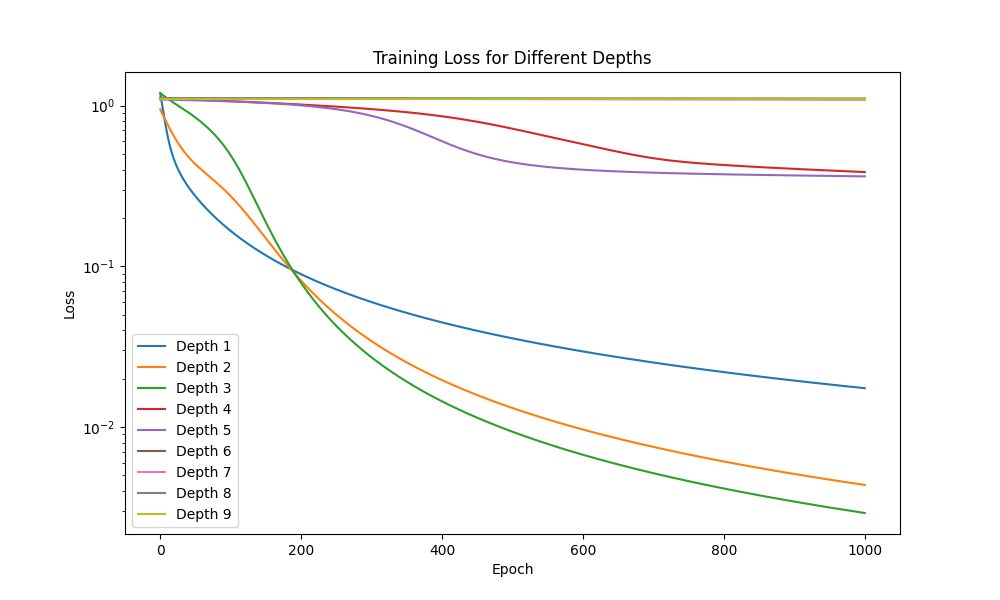
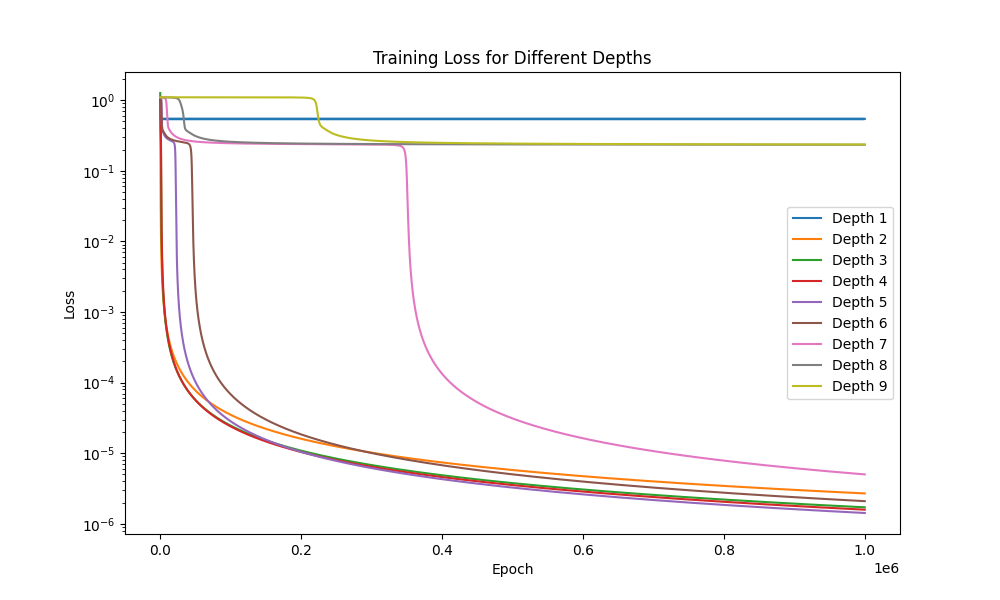
add margins curves

diff --git a/test_multiclass_data.py b/test_multiclass_data.py
@@ -43,6 +43,7 @@ def run_depth(depth, n_epochs, lr_init, X_tensor, y_tensor, X, y):
     criterion = nn.CrossEntropyLoss()
     optimizer = optim.SGD(model.parameters(), lr=lr)
     loss_l = []
+    margins_l = []
     for epoch in tqdm(range(n_epochs), desc=f"Depth {depth}", leave=False, disable=True):
         optimizer.zero_grad()
         outputs = model(X_tensor)
@@ -50,6 +51,17 @@ def run_depth(depth, n_epochs, lr_init, X_tensor, y_tensor, X, y):
         loss.backward()
         optimizer.step()
         loss_l.append(loss.item())
+        if epoch % (n_epochs//1000):            
+            W = model.layers[0].weight.detach().numpy().T
+            for i in range(1, len(model.layers)):
+                W = W @ model.layers[i].weight.detach().numpy().T
+            W /= np.linalg.norm(W)
+            scores = X @ W
+            true_scores = scores[np.arange(3), y]
+            scores_margin = scores.copy()
+            scores_margin[np.arange(3), y] = -100
+            margin = (true_scores[:, None] - scores_margin).min(1).min()
+            margins_l.append(margin)
     # Final predictions and metrics
     with torch.no_grad():
         outputs = model(X_tensor)
@@ -71,6 +83,7 @@ def run_depth(depth, n_epochs, lr_init, X_tensor, y_tensor, X, y):
         "final_loss": final_loss,
         "accuracy": acc,
         "margin": margin,
+        "margins_l": margins_l,
         "PR": pr,
         "W": W,
         "pred": pred.numpy(),
@@ -83,8 +96,8 @@ def run_depth(depth, n_epochs, lr_init, X_tensor, y_tensor, X, y):
 
 if __name__ == "__main__":
     depths = np.arange(1, 10)
-    n_epochs = 1000#0000
-    lr_init = 0.1
+    n_epochs = 1000000#0
+    lr_init = 0.05
     results = {}
 
     # Use multiprocessing to run each depth in parallel
@@ -109,6 +122,17 @@ if __name__ == "__main__":
     plt.title('Training Loss for Different Depths')
     plt.legend()
     plt.savefig('figures/loss_curves.png')
+    plt.close()
+
+    plt.figure(figsize=(10, 6))
+    for depth in depths:
+        plt.plot(results[depth]["margins_l"], label=f"Depth {depth}")
+    # plt.yscale('log')
+    plt.xlabel('Epoch')
+    plt.ylabel('Margin')
+    plt.title('Training Margin for Different Depths')
+    plt.legend()
+    plt.savefig('figures/margins_curves.png')
     plt.close()
 
     # Prepare data for plotting
